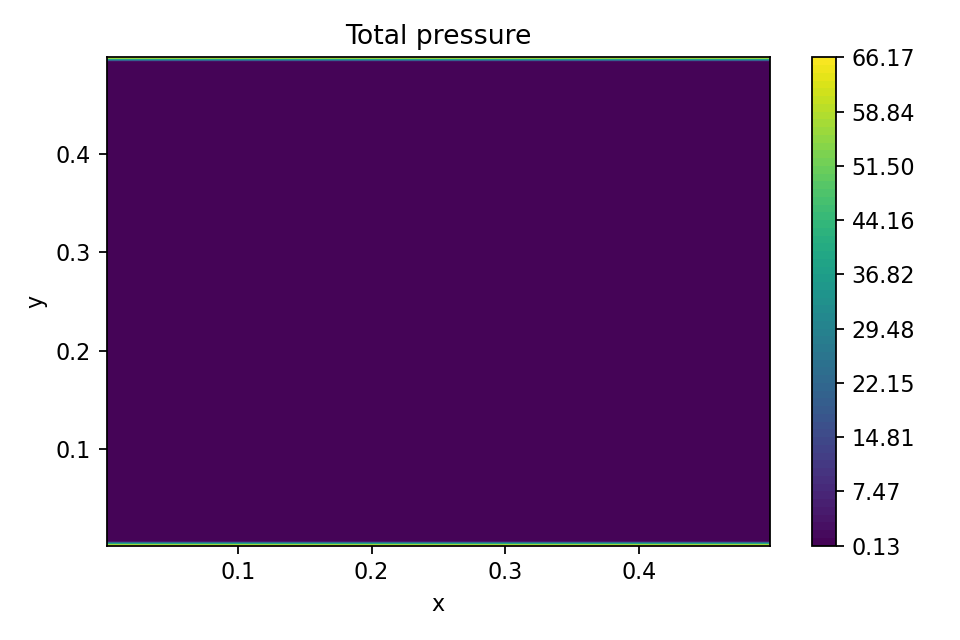
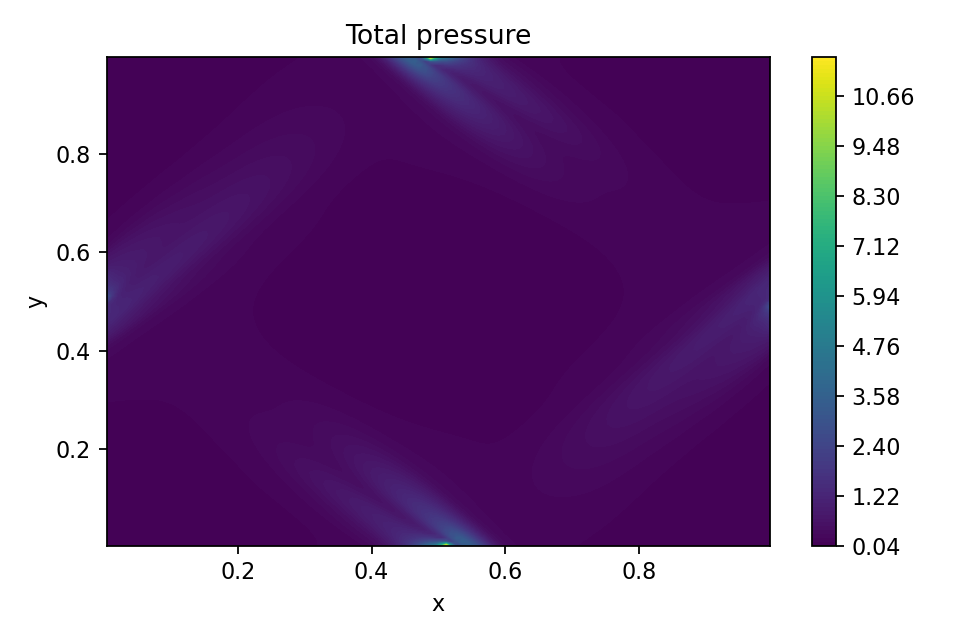
save previous version

diff --git a/src/solver.py b/src/solver.py
@@ -61,10 +61,9 @@ class Solver:
     def set_init_condition(self):
         # Orszag-Tang vortex condition
 
-        xlin = np.linspace(0.5 * self.dx, self.L - 0.5 * self.dx, self.nx)
-        ylin = np.linspace(0.5 * self.dx, self.L - 0.5 * self.dx, self.ny)
+        lin = np.linspace(0.5 * self.dx, self.L - 0.5 * self.dx, self.nx)
         
-        X,Y = np.meshgrid(xlin, ylin)
+        Y,X = np.meshgrid(lin, lin)
 
         self.X = X
         self.Y = Y
@@ -95,6 +94,15 @@ class Solver:
     def compute_fast_magnetosonic_speed(self, vS, vA):
         self.vF = np.sqrt((vS**2 + vA**2 + np.sqrt(vS**2 + vA**2) ** 2) / 2)
         return self.vF
+    
+    def compute_total_energy(self, rho, vx, vy, Bx, By, P):
+        self.total_energy = P / (self.gamma - 1) / rho + 0.5 * (vx ** 2 + vy ** 2) + 0.5 * (Bx ** 2 + By ** 2) / rho
+        return self.total_energy
+    
+    def compute_pressure(self, rho, vx, vy, Bx, By, te):
+        P = te - 0.5 * (vx ** 2 + vy ** 2) + 0.5 * (Bx ** 2 + By ** 2) / rho
+        self.P = P * (self.gamma - 1) * rho
+        return self.P
 
     def compute_RK_partial(
         self,
@@ -121,23 +129,72 @@ class Solver:
             P_dx, P_dy = constraint_slope(P, self.dx, P_dx, P_dy)
 
         drho = (-1) * (vx * rho_dx + vy * rho_dy + rho * vx_dx + rho * vy_dy)
+        
+        # div B used for convergence
+        # JxB -> B*dB - d(0.5 * B**2)
+        
         dvx = (-1) * (
-            vx * vx_dx + vy * vx_dy - 1 / 4 / np.pi * By * (Bx_dy - By_dx) + P_dx
+            vx * vx_dx + vy * vx_dy - 1 / 4 / np.pi / rho * By * (Bx_dy - By_dx) + P_dx / rho
         )
         dvy = (-1) * (
-            vx * vy_dx + vy * vy_dy - 1 / 4 / np.pi * By * (By_dx - Bx_dy) + P_dy
+            vx * vy_dx + vy * vy_dy - 1 / 4 / np.pi / rho * Bx * (By_dx - Bx_dy) + P_dy / rho
         )
         dBx = (-1) * (
-            vx * Bx_dx + vy * Bx_dy + Bx * (vx_dx + vy_dy) - Bx * vx_dx - By * vx_dy
+            vx * By_dy * (-1) + vy * Bx_dy + Bx * (vx_dx + vy_dy) - Bx * vx_dx - By * vx_dy
         )
         dBy = (-1) * (
-            vx * By_dx + vy * By_dy + By * (vx_dx + vy_dy) - Bx * vy_dx - By * vy_dy
+            vx * By_dx + vy * Bx_dx * (-1) + By * (vx_dx + vy_dy) - Bx * vy_dx - By * vy_dy
         )
+        
         dP = (-1) * (
             vx * P_dx + vy * P_dy + self.gamma * P * vx_dx + self.gamma * P * vy_dy
         )
 
         return drho, dvx, dvy, dBx, dBy, dP
+    
+    def update_variables(self, rho, vx, vy, Bx, By, P, dt):
+        
+        # Runge-Kutta method 4th order
+        rho_k1, vx_k1, vy_k1, Bx_k1, By_k1, P_k1 = self.compute_RK_partial(
+            rho, vx, vy, Bx, By, P
+        )
+
+        rho_k2, vx_k2, vy_k2, Bx_k2, By_k2, P_k2 = self.compute_RK_partial(
+            rho + 0.5 * dt * rho_k1,
+            vx + 0.5 * dt * vx_k1,
+            vy + 0.5 * dt * vy_k1,
+            Bx + 0.5 * dt * Bx_k1,
+            By + 0.5 * dt * By_k1,
+            P + 0.5 * dt * P_k1,
+        )
+
+        rho_k3, vx_k3, vy_k3, Bx_k3, By_k3, P_k3 = self.compute_RK_partial(
+            rho + 0.5 * dt * rho_k2,
+            vx + 0.5 * dt * vx_k2,
+            vy + 0.5 * dt * vy_k2,
+            Bx + 0.5 * dt * Bx_k2,
+            By + 0.5 * dt * By_k2,
+            P + 0.5 * dt * P_k2,
+        )
+
+        rho_k4, vx_k4, vy_k4, Bx_k4, By_k4, P_k4 = self.compute_RK_partial(
+            rho + dt * rho_k3,
+            vx + dt * vx_k3,
+            vy + dt * vy_k3,
+            Bx + dt * Bx_k3,
+            By + dt * By_k3,
+            P + dt * P_k3,
+        )
+
+        # update physical variables
+        rho_new = rho + dt * (1 / 6) * (rho_k1 + 2 * rho_k2 + 2 * rho_k3 + rho_k4)
+        vx_new = vx + dt * (1 / 6) * (vx_k1 + 2 * vx_k2 + 2 * vx_k3 + vx_k4)
+        vy_new = vy + dt * (1 / 6) * (vy_k1 + 2 * vy_k2 + 2 * vy_k3 + vy_k4)
+        Bx_new = Bx + dt * (1 / 6) * (Bx_k1 + 2 * Bx_k2 + 2 * Bx_k3 + Bx_k4)
+        By_new = By + dt * (1 / 6) * (By_k1 + 2 * By_k2 + 2 * By_k3 + By_k4)
+        P_new = P + dt * (1 / 6) * (P_k1 + 2 * P_k2 + 2 * P_k3 + P_k4)
+        
+        return rho_new, vx_new, vy_new, Bx_new, By_new, P_new
 
     def solve(self):
         t = 0
@@ -147,66 +204,35 @@ class Solver:
         print("======================================================================")
         print("# Constraint Transport Solver: Initialize Orszag-Tang vortex condition")
         self.set_init_condition()
-
-        vA = self.compute_Alfven_speed(self.rho, self.Bx, self.By)
-        vS = self.compute_sound_speed(self.rho, self.Bx, self.By, self.P)
-        vF = self.compute_fast_magnetosonic_speed(vS, vA)
-
-        self.dt = self.courant_factor * np.min(
-            self.dx / (vF + np.sqrt(self.vx**2 + self.vy**2))
-        )
         
         print(
             "# Constraint Transport Solver: Iteration for solving MHD tranport equation"
         )
+        
         while t < self.t_end:
-            # Runge-Kutta method 4th order
-            rho_k1, vx_k1, vy_k1, Bx_k1, By_k1, P_k1 = self.compute_RK_partial(
-                self.rho, self.vx, self.vy, self.Bx, self.By, self.P
-            )
-
-            rho_k2, vx_k2, vy_k2, Bx_k2, By_k2, P_k2 = self.compute_RK_partial(
-                self.rho + 0.5 * self.dt * rho_k1,
-                self.vx + 0.5 * self.dt * vx_k1,
-                self.vy + 0.5 * self.dt * vy_k1,
-                self.Bx + 0.5 * self.dt * Bx_k1,
-                self.By + 0.5 * self.dt * By_k1,
-                self.P + 0.5 * self.dt * P_k1,
-            )
-
-            rho_k3, vx_k3, vy_k3, Bx_k3, By_k3, P_k3 = self.compute_RK_partial(
-                self.rho + 0.5 * self.dt * rho_k2,
-                self.vx + 0.5 * self.dt * vx_k2,
-                self.vy + 0.5 * self.dt * vy_k2,
-                self.Bx + 0.5 * self.dt * Bx_k2,
-                self.By + 0.5 * self.dt * By_k2,
-                self.P + 0.5 * self.dt * P_k2,
-            )
-
-            rho_k4, vx_k4, vy_k4, Bx_k4, By_k4, P_k4 = self.compute_RK_partial(
-                self.rho + self.dt * rho_k3,
-                self.vx + self.dt * vx_k3,
-                self.vy + self.dt * vy_k3,
-                self.Bx + self.dt * Bx_k3,
-                self.By + self.dt * By_k3,
-                self.P + self.dt * P_k3,
-            )
-
-            # update physical variables
-            self.rho += self.dt * (1 / 6) * (rho_k1 + 2 * rho_k2 + 2 * rho_k3 + rho_k4)
-            self.vx += self.dt * (1 / 6) * (vx_k1 + 2 * vx_k2 + 2 * vx_k3 + vx_k4)
-            self.vy += self.dt * (1 / 6) * (vy_k1 + 2 * vy_k2 + 2 * vy_k3 + vy_k4)
-            self.Bx += self.dt * (1 / 6) * (Bx_k1 + 2 * Bx_k2 + 2 * Bx_k3 + Bx_k4)
-            self.By += self.dt * (1 / 6) * (By_k1 + 2 * By_k2 + 2 * By_k3 + By_k4)
-            self.P += self.dt * (1 / 6) * (P_k1 + 2 * P_k2 + 2 * P_k3 + P_k4)
-
-            # update time
-            t += self.dt
-
+            
+            # compute Alfven speed, sound speed, and fast magnetosonic speed
+            vA = self.compute_Alfven_speed(self.rho, self.Bx, self.By)
+            vS = self.compute_sound_speed(self.rho, self.Bx, self.By, self.P)
+            vF = self.compute_fast_magnetosonic_speed(vS, vA)
+            
             # update time interval
             self.dt = self.courant_factor * np.min(
                 self.dx / (vF + np.sqrt(self.vx**2 + self.vy**2))
             )
+            
+            # update physical variables
+            rho_new, vx_new, vy_new, Bx_new, By_new, P_new = self.update_variables(self.rho, self.vx, self.vy, self.Bx, self.By, self.P, self.dt)
+            
+            self.rho = rho_new
+            self.vx = vx_new
+            self.vy = vy_new
+            self.Bx = Bx_new
+            self.By = By_new
+            self.P = P_new
+
+            # update time
+            t += self.dt
 
             # update macroscopic variables
             self.Pt = self.P + 0.5 * (self.Bx**2 + self.By**2)
@@ -239,9 +265,45 @@ class Solver:
             title="Total pressure",
             save_path=os.path.join(self.save_dir, "pressure.png"),
         )
+        
+        self.plot_contourf(
+            self.total_energy,
+            title="Total energy",
+            save_path=os.path.join(self.save_dir, "energy.png"),
+        )
+        
+        self.plot_contourf(
+            self.internal_energy,
+            title="Internal energy",
+            save_path=os.path.join(self.save_dir, "energy_internal.png"),
+        )
+        
+        self.plot_contourf(
+            self.rho,
+            title="Plasma density",
+            save_path=os.path.join(self.save_dir, "density.png"),
+        )
+        
+        self.plot_contourf(
+            self.vx,
+            title="Vx",
+            save_path=os.path.join(self.save_dir, "vx.png"),
+        )
+        
+        self.plot_contourf(
+            self.vy,
+            title="Vy",
+            save_path=os.path.join(self.save_dir, "vy.png"),
+        )
+        
+        self.plot_contourf(
+            0.5*(self.Bx ** 2 + self.By ** 2),
+            title="Magnetic pressure",
+            save_path=os.path.join(self.save_dir, "pressure_magnetic.png"),
+        )
 
     def plot_contourf(self, vector, title: str, save_path: str):
-        cbar = np.linspace(np.min(vector), np.max(vector), num=64)
+        cbar = np.linspace(np.min(vector), np.max(vector), num=128)
         plt.figure(figsize=(6, 4), dpi=160)
         plt.contourf(self.X, self.Y, vector, cbar)
         plt.xlabel("x")

diff --git a/src/compute.py b/src/compute.py
@@ -1,30 +1,29 @@
 import numpy as np
 from typing import Optional
 
-
 def compute_gradient(A: np.ndarray, d: float):
     Ax = (np.roll(A, -1, 0) - np.roll(A, 1, 0)) / (2 * d)
     Ay = (np.roll(A, -1, 1) - np.roll(A, 1, 1)) / (2 * d)
 
-    Ax[0, :] = (A - np.roll(A, 1, 0))[0,:] / d
-    Ax[-1, :] = (np.roll(A, -1, 0) - A)[-1,:] / d
+    Ax[0, :] = (np.roll(A, -1, 0) - A)[0,:] / d # (A - np.roll(A, 1, 0))[0,:] / d
+    Ax[-1, :] = (A - np.roll(A, 1, 0))[-1,:] / d # (np.roll(A, -1, 0) - A)[-1,:] / d
 
-    Ay[:, 0] = (A - np.roll(A, 1, 1))[:,0] / d
-    Ay[:, -1] = (np.roll(A, -1, 1) - A)[:,-1] / d
+    Ay[:, 0] = (np.roll(A, -1, 1) - A)[:,0] / d # (A - np.roll(A, 1, 1))[:,0] / d
+    Ay[:, -1] = (A - np.roll(A, 1, 1))[:,-1] / d # (np.roll(A, -1, 1) - A)[:,-1] / d
+    
     return Ax, Ay
 
 def compute_curl_z(A: np.ndarray, d: float):
     Bx = (np.roll(A, -1, 1) - np.roll(A, 1, 1)) / (2 * d)
     By = (-1) * (np.roll(A, -1, 0) - np.roll(A, 1, 0)) / (2 * d)
 
-    Bx[0,:] = (A - np.roll(A, 1, 1))[0,:] / d
-    Bx[-1,:] = (np.roll(A, -1, 1) - A)[-1,:] / d
+    Bx[:,0] = (np.roll(A, -1, 1) - A)[:,0] / d # (A - np.roll(A, 1, 1))[0,:] / d
+    Bx[:,-1] = (A - np.roll(A, 1, 1))[:,-1] / d # (np.roll(A, -1, 1) - A)[-1,:] / d
 
-    By[:,0] = (-1) * (A - np.roll(A, 1, 0))[:,0] / d
-    By[:,-1] = (-1) * (np.roll(A, -1, 0) - A)[:,-1] / d
-
+    By[0,:] = (-1) * (np.roll(A, -1, 0) - A)[0,:] / d # (-1) * (A - np.roll(A, 1, 0))[:,0] / d
+    By[-1,:] = (-1) * (A - np.roll(A, 1, 0))[-1,:] / d # (-1) * (np.roll(A, -1, 0) - A)[:,-1] / d
+    
     return Bx, By
-
 
 def compute_div(Ax: np.ndarray, Ay: np.ndarray, d: float):
     R = -1
@@ -34,7 +33,6 @@ def compute_div(Ax: np.ndarray, Ay: np.ndarray, d: float):
     )
     div_A /= 2 * d
     return div_A
-
 
 def extrapolate_space(
     A: np.ndarray,
@@ -56,7 +54,6 @@ def extrapolate_space(
 
     return Ax_l, Ax_r, Ay_l, Ay_r
 
-
 def constraint_slope(A: np.ndarray, d: float, Ax: np.ndarray, Ay: np.ndarray):
     R = -1
     L = 1
@@ -73,7 +70,7 @@ def constraint_slope(A: np.ndarray, d: float, Ax: np.ndarray, Ay: np.ndarray):
         np.maximum(
             0,
             np.minimum(
-                1, ((A - np.roll(A, R, axis=0)) / d) / (Ax + 1.0e-8 * (Ax == 0))
+                1, (-1) * ((A - np.roll(A, R, axis=0)) / d) / (Ax + 1.0e-8 * (Ax == 0))
             ),
         )
         * Ax
@@ -91,7 +88,7 @@ def constraint_slope(A: np.ndarray, d: float, Ax: np.ndarray, Ay: np.ndarray):
         np.maximum(
             0,
             np.minimum(
-                1, ((A - np.roll(A, R, axis=1)) / d) / (Ay + 1.0e-8 * (Ay == 0))
+                1, (-1) * ((A - np.roll(A, R, axis=1)) / d) / (Ay + 1.0e-8 * (Ay == 0))
             ),
         )
         * Ay

diff --git a/main.py b/main.py
@@ -6,8 +6,8 @@ def parsing():
     parser.add_argument("--num_mesh", type=int, default=128)
     parser.add_argument("--t_srt", type=float, default=0)
     parser.add_argument("--t_end", type=float, default=0.25)
-    parser.add_argument("--L", type=float, default=0.5)
-    parser.add_argument("--use_constraint_slope", type=bool, default=True)
+    parser.add_argument("--L", type=float, default=1.0)
+    parser.add_argument("--use_constraint_slope", type=bool, default=False)
     parser.add_argument("--use_animation", type=bool, default=True)
     parser.add_argument("--verbose", type=int, default=16)
     parser.add_argument("--plot_freq", type=int, default=10)
